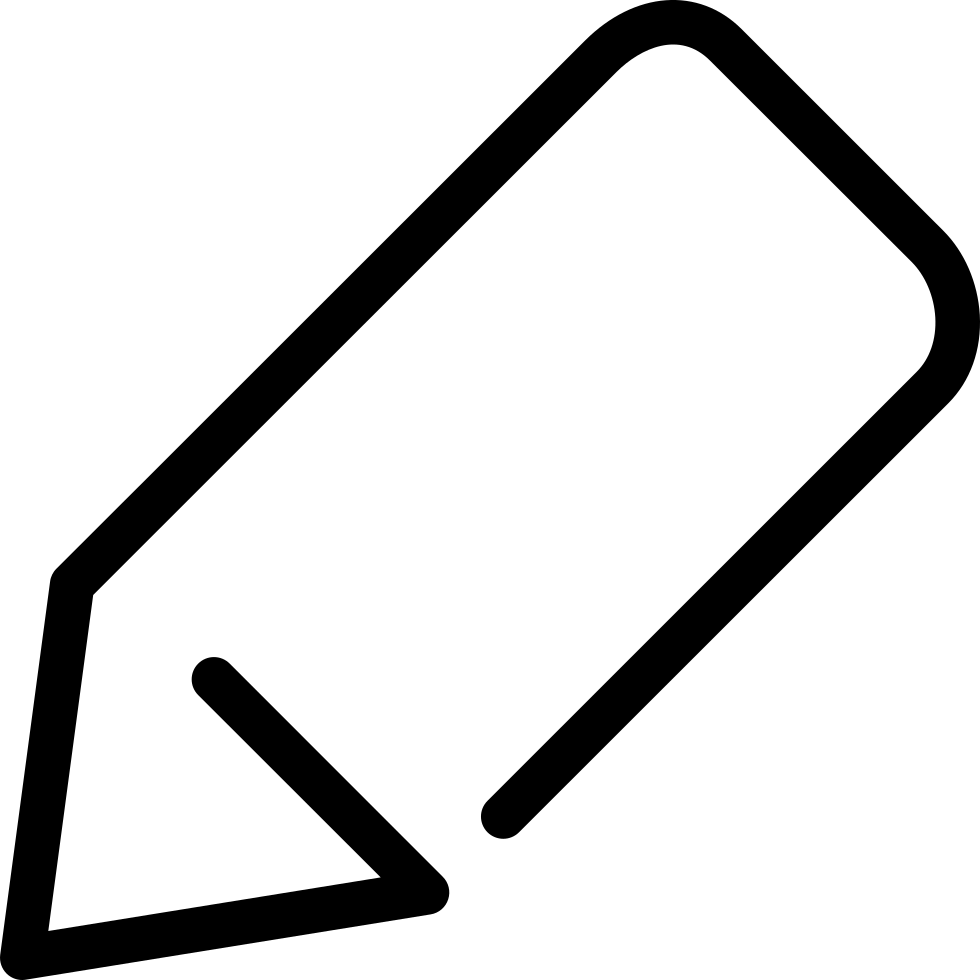
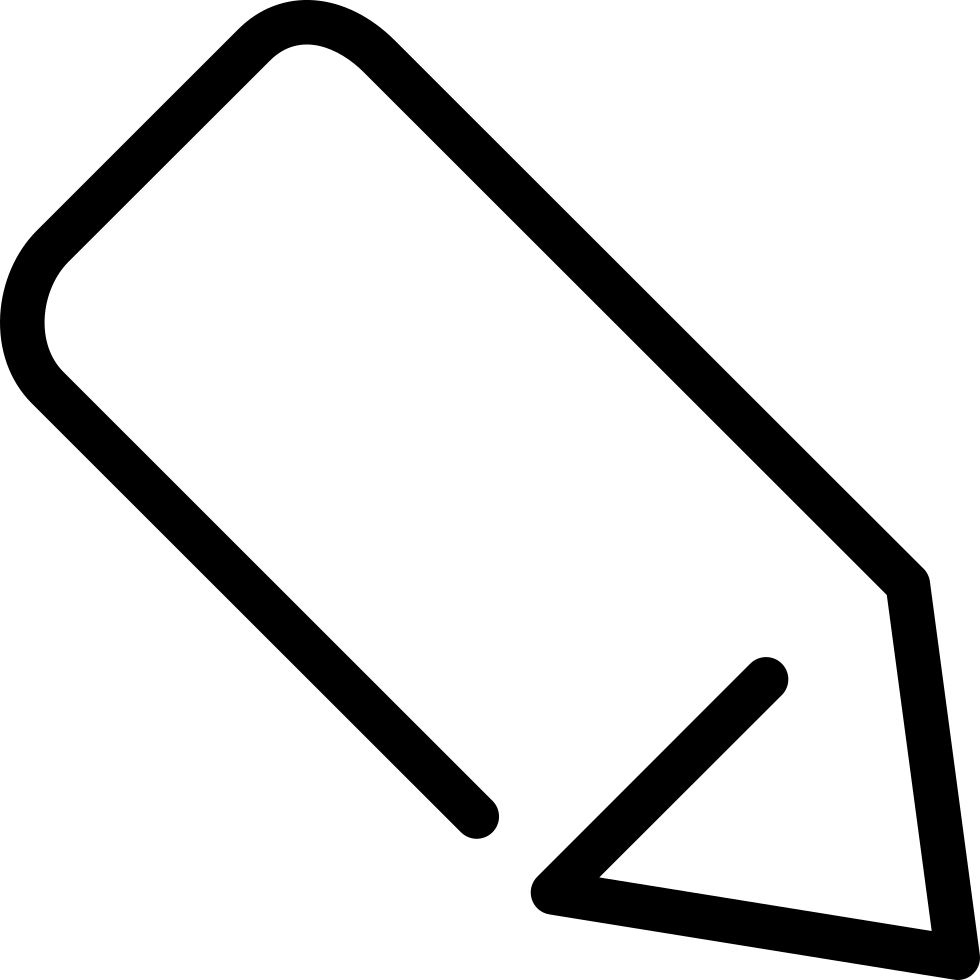
Created button on Detail view that allows user to add/remove video from custom lists

Changed region(s): [[0.0, 0.0, 1.0, 1.0]]

diff --git a/main_window/mainwindow.py b/main_window/mainwindow.py
@@ -9,6 +9,7 @@ import PyQt5.QtWidgets as QtWidgets
 import PyQt5.QtCore as QtCore
 
 from fetch_video_info import fetch_window
+from main_window import add_to_cl_window
 from misc_files import common_vars, check_for_db
 from settings import settings_window
 from video_entry import entry_screen
@@ -324,6 +325,16 @@ class MainWindow(QtWidgets.QMainWindow):
 		self.middleRibbonHLayout.addWidget(self.YTButton)
 		self.middleRibbonHLayout.addSpacing(10)
 
+		self.editCLIcon = QtGui.QIcon(getcwd() + '\\icons\\edit-cl-icon.png')
+		self.editCLButton = QtWidgets.QPushButton()
+		self.editCLButton.setToolTip('Add/remove from custom lists')
+		self.editCLButton.setFixedSize(40, 40)
+		self.editCLButton.setIcon(self.editCLIcon)
+		self.editCLButton.setIconSize(QtCore.QSize(30, 30))
+		self.editCLButton.setDisabled(True)
+		self.middleRibbonHLayout.addSpacing(30)
+		self.middleRibbonHLayout.addWidget(self.editCLButton, alignment=QtCore.Qt.AlignRight)
+
 		self.deleteIcon = QtGui.QIcon(getcwd() + '\\icons\\delete_icon.png')
 		self.deleteButton = QtWidgets.QPushButton()
 		self.deleteButton.setToolTip('Delete this video from AMV Tracker')
@@ -331,7 +342,6 @@ class MainWindow(QtWidgets.QMainWindow):
 		self.deleteButton.setIcon(self.deleteIcon)
 		self.deleteButton.setIconSize(QtCore.QSize(25, 25))
 		self.deleteButton.setDisabled(True)
-		self.middleRibbonHLayout.addSpacing(30)
 		self.middleRibbonHLayout.addWidget(self.deleteButton, alignment=QtCore.Qt.AlignRight)
 
 		self.vertFrame1 = QtWidgets.QFrame()
@@ -387,12 +397,26 @@ class MainWindow(QtWidgets.QMainWindow):
 		self.vidIDLabel.setText('AMV Tracker video ID:\n')
 		self.vidIDLabel.setFont(self.medLargeText)
 		self.middleRibbonHLayout.addWidget(self.vidIDLabel)
+		"""self.middleRibbonHLayout.addSpacing(10)
+
+		self.vertFrame4 = QtWidgets.QFrame()
+		self.vertFrame4.setFrameStyle(QtWidgets.QFrame.VLine | QtWidgets.QFrame.Sunken)
+		self.vertFrame4.setLineWidth(0)
+		self.vertFrame4.setMidLineWidth(1)
+		self.middleRibbonHLayout.addWidget(self.vertFrame4)
+		self.middleRibbonHLayout.addSpacing(10)
+
+		self.dViewSubDBLabel = QtWidgets.QLabel()
+		self.dViewSubDBLabel.setText('Sub-DB:\n')
+		self.dViewSubDBLabel.setFont(self.medLargeText)
+		self.middleRibbonHLayout.addWidget(self.dViewSubDBLabel)"""
 
 		# self.gridDHeader.addLayout(self.middleRibbonHLayout, dViewHeaderInd, 0, 1, 3)
 
 		dViewHeaderInd += 1
 
 		## Detail view: Left grid
+		# TODO: Widgets overlap if too much info is provided
 		self.pseudoLabel = QtWidgets.QLabel()
 		self.pseudoLabel.setWordWrap(True)
 		self.pseudoLabel.setText('Primary editor pseudonym(s): ')
@@ -520,7 +544,7 @@ class MainWindow(QtWidgets.QMainWindow):
 
 		self.tags1Label = QtWidgets.QLabel()
 		self.tags1Label.setWordWrap(True)
-		self.tags1Label.setText('Tags:')
+		self.tags1Label.setText('Tags: ')
 		# self.tags1Label.hide()
 		self.tags1Label.setFixedWidth(300)
 		self.tags1Label.setFont(self.medLargeText)
@@ -773,7 +797,7 @@ class MainWindow(QtWidgets.QMainWindow):
 		# Set layouts
 		self.hLayoutTopBar_L.addWidget(self.addVideoBtn, alignment=QtCore.Qt.AlignLeft)
 		self.hLayoutTopBar_L.addWidget(self.fetchDataButton, alignment=QtCore.Qt.AlignLeft)
-		self.hLayoutTopBar_L.addWidget(self.custListBtn, alignment=QtCore.Qt.AlignLeft)
+		# self.hLayoutTopBar_L.addWidget(self.custListBtn, alignment=QtCore.Qt.AlignLeft)
 		self.hLayoutTopBar_Ctr.addWidget(self.listViewBtn, alignment=QtCore.Qt.AlignLeft)
 		self.hLayoutTopBar_Ctr.addWidget(self.detailViewBtn, alignment=QtCore.Qt.AlignLeft)
 		self.hLayoutTopBar_R.addWidget(self.settingsBtn, alignment=QtCore.Qt.AlignRight)
@@ -837,6 +861,8 @@ class MainWindow(QtWidgets.QMainWindow):
 		self.YTButton.clicked.connect(lambda: self.go_to_link(common_vars.sub_db_lookup()[self.subDBDrop.currentText()],
 																self.searchTable.item(self.searchTable.currentRow(), 0).text(),
 															  'video_youtube_url'))
+		self.editCLButton.clicked.connect(lambda: self.add_to_cust_list(
+			self.searchTable.item(self.searchTable.currentRow(), 0).text()))
 		self.deleteButton.clicked.connect(lambda: self.delete_video(
 			common_vars.sub_db_lookup()[self.subDBDrop.currentText()],
 			self.searchTable.item(self.searchTable.currentRow(), 0).text()))
@@ -1453,6 +1479,7 @@ class MainWindow(QtWidgets.QMainWindow):
 			self.thumbLabel.setPixmap(self.thumbPixmap.scaled(self.thumbLabel.size(), QtCore.Qt.KeepAspectRatio))
 
 			self.editButton.setEnabled(True)
+			self.editCLButton.setEnabled(True)
 			self.deleteButton.setEnabled(True)
 			self.playCountIncreaseBtn.setEnabled(True)
 			self.playCountDecreaseBtn.setEnabled(True)
@@ -1704,6 +1731,10 @@ class MainWindow(QtWidgets.QMainWindow):
 			no_url_error.exec_()
 
 		go_to_link_conn.close()
+
+	def add_to_cust_list(self, vidid):
+		self.add_win = add_to_cl_window.AddToCustList(vidid)
+		self.add_win.show()
 
 	def delete_video(self, subdb, vidid):
 		subdb_friendly = common_vars.sub_db_lookup(reverse=True)[subdb]

diff --git a/main_window/add_to_cl_window.py b/main_window/add_to_cl_window.py
@@ -1,0 +1,110 @@
+import PyQt5.QtGui as QtGui
+import PyQt5.QtWidgets as QtWidgets
+import PyQt5.QtCore as QtCore
+import sqlite3
+
+from misc_files import common_vars
+
+
+class AddToCustList(QtWidgets.QMainWindow):
+	def __init__(self, vidid):
+		super(AddToCustList, self).__init__()
+
+		self.vidid = vidid
+
+		self.vLayoutMaster = QtWidgets.QVBoxLayout()
+		self.checkVLayout = QtWidgets.QVBoxLayout()
+		self.hLayout = QtWidgets.QHBoxLayout()
+		self.scrollWidget = QtWidgets.QWidget()
+		self.scrollArea = QtWidgets.QScrollArea()
+		self.scrollArea.setSizePolicy(QtWidgets.QSizePolicy.Expanding, QtWidgets.QSizePolicy.Expanding)
+
+		self.descLabel = QtWidgets.QLabel()
+		self.descLabel.setText('Please select the custom list(s) you\'d like to add this\n'
+							   'video to.\n\n'
+							   'Please note that if any of the lists below are checked\n'
+							   'and you uncheck them before submitting, the video will\n'
+							   'be removed from that custom list.')
+
+		self.cancelButton = QtWidgets.QPushButton('Cancel')
+		self.cancelButton.setFixedWidth(125)
+
+		self.submitButton = QtWidgets.QPushButton('Submit')
+		self.submitButton.setFixedWidth(125)
+
+		# Layouts
+		self.vLayoutMaster.addWidget(self.descLabel)
+		self.populate_checkboxes()
+		self.scrollWidget.setLayout(self.checkVLayout)
+		self.scrollArea.setWidget(self.scrollWidget)
+		self.vLayoutMaster.addWidget(self.scrollArea)
+		self.hLayout.addWidget(self.cancelButton)
+		self.hLayout.addWidget(self.submitButton)
+		self.vLayoutMaster.addLayout(self.hLayout)
+
+		# Signals / slots
+		self.cancelButton.clicked.connect(self.close)
+		self.submitButton.clicked.connect(self.submit)
+
+		# Widget
+		self.wid = QtWidgets.QWidget()
+		self.wid.setLayout(self.vLayoutMaster)
+		self.setCentralWidget(self.wid)
+		self.setWindowTitle('Custom lists')
+		self.setFixedSize(self.sizeHint())
+		self.setFixedHeight(400)
+		self.wid.show()
+
+	def populate_checkboxes(self):
+		video_db_conn = sqlite3.connect(common_vars.video_db())
+		video_db_cursor = video_db_conn.cursor()
+
+		video_db_cursor.execute('SELECT list_name FROM custom_lists')
+		all_cust_lists = [x[0] for x in video_db_cursor.fetchall()]
+		all_cust_lists.sort(key=lambda x: x.casefold())
+
+		video_db_cursor.execute('SELECT list_name FROM custom_lists WHERE vid_ids LIKE "%{}%"'.format(self.vidid))
+		vid_exists_list = [x[0] for x in video_db_cursor.fetchall()]
+
+		list_of_checks = [QtWidgets.QCheckBox(cl) for cl in all_cust_lists]
+		for chk in list_of_checks:
+			self.checkVLayout.addWidget(chk)
+			if chk.text() in vid_exists_list:
+				chk.setChecked(True)
+
+		video_db_conn.close()
+
+	def submit(self):
+		submit_conn = sqlite3.connect(common_vars.video_db())
+		submit_cursor = submit_conn.cursor()
+
+		checked_boxes = [chk.text() for chk in self.checkVLayout.parentWidget().findChildren(QtWidgets.QCheckBox) if
+						 chk.isChecked()]
+		unchecked_boxes = [chk.text() for chk in self.checkVLayout.parentWidget().findChildren(QtWidgets.QCheckBox) if
+						 not chk.isChecked()]
+		all_boxes = checked_boxes + unchecked_boxes
+
+		for box in all_boxes:
+			submit_cursor.execute('SELECT vid_ids FROM custom_lists WHERE list_name = ?', (box,))
+			vidid_str = submit_cursor.fetchone()[0]
+			if box in checked_boxes and self.vidid not in vidid_str:
+				vidid_str += '; {}'.format(self.vidid)
+				submit_cursor.execute('UPDATE custom_lists SET vid_ids = ? WHERE list_name = ?', (vidid_str, box))
+				submit_conn.commit()
+
+			elif box in unchecked_boxes and self.vidid in vidid_str:
+				vidid_list = vidid_str.split('; ')
+				vidid_list.remove(self.vidid)
+				upd_str = '; '.join(vidid_list)
+				submit_cursor.execute('UPDATE custom_lists SET vid_ids = ? WHERE list_name = ?', (upd_str, box))
+				submit_conn.commit()
+
+		op_completed = QtWidgets.QMessageBox(QtWidgets.QMessageBox.Information, 'Lists updated',
+											 'Custom lists have been updated.')
+		op_completed.exec_()
+
+		submit_conn.close()
+		self.close()
+
+
+

diff --git a/video_entry/entry_screen.py b/video_entry/entry_screen.py
@@ -55,6 +55,7 @@ class VideoEntry(QtWidgets.QMainWindow):
 		self.entry_settings_list = self.settings_cursor.fetchall()
 		for pair in self.entry_settings_list:
 			self.entry_settings[pair[0]] = int(pair[1])
+
 		# Initiate top-level layouts
 		self.tabs = QtWidgets.QTabWidget()
 		self.tab1 = QtWidgets.QWidget()
@@ -79,7 +80,6 @@ class VideoEntry(QtWidgets.QMainWindow):
 		hLayoutMain.addWidget(self.submitButton, alignment=QtCore.Qt.AlignRight)
 
 		## Tab 1 - Left grid ##
-		self.tabs.addTab(self.tab1, 'Video information')
 		tab_1_grid_L = QtWidgets.QGridLayout()
 		tab_1_grid_L.setAlignment(QtCore.Qt.AlignTop)
 		tab_1_grid_L.setColumnMinimumWidth(5, 7)
@@ -443,7 +443,6 @@ class VideoEntry(QtWidgets.QMainWindow):
 		tab_1_grid_R.addWidget(self.vidDescBox, grid_1_R_vert_ind, 1, alignment=QtCore.Qt.AlignLeft)
 
 		## Tab 2 ##
-		self.tabs.addTab(self.tab2, 'My rating/tags/comments')
 		tab_2_grid = QtWidgets.QGridLayout()
 		tab_2_grid.setAlignment(QtCore.Qt.AlignTop)
 		grid_2_vert_ind = 0
@@ -601,7 +600,6 @@ class VideoEntry(QtWidgets.QMainWindow):
 		tab_2_grid.addWidget(self.commentsBox, grid_2_vert_ind + 1, 0, 1, 4, alignment=QtCore.Qt.AlignTop)
 
 		## Tab 3 - Top grid ##
-		self.tabs.addTab(self.tab3, 'Sources and URLs')
 		tab_3_grid_T = QtWidgets.QGridLayout()
 		tab_3_grid_T.setAlignment(QtCore.Qt.AlignTop)
 		grid_3_T_vert_ind = 0
@@ -742,7 +740,7 @@ class VideoEntry(QtWidgets.QMainWindow):
 		tab_3_grid_T.addWidget(self.thumbnailGenButton, grid_3_T_vert_ind, 4, alignment=QtCore.Qt.AlignLeft)
 
 		## Tab 3 - Bottom grid ##
-		self.tabs.addTab(self.tab3, 'Sources and URLs')
+		#self.tabs.addTab(self.tab3, 'Sources and URLs')
 		tab_3_grid_B = QtWidgets.QGridLayout()
 		tab_3_grid_B.setAlignment(QtCore.Qt.AlignLeft)
 		tab_3_grid_B.setAlignment(QtCore.Qt.AlignTop)
@@ -809,7 +807,6 @@ class VideoEntry(QtWidgets.QMainWindow):
 		grid_3_B_vert_ind += 1
 
 		## Tab 4 ##
-		self.tabs.addTab(self.tab4, 'Submission rules')
 		tab_4_vLayoutMaster = QtWidgets.QVBoxLayout()
 		tab_4_vLayoutMaster.setAlignment(QtCore.Qt.AlignTop)
 		tab_4_vLayout1 = QtWidgets.QVBoxLayout()
@@ -883,6 +880,11 @@ class VideoEntry(QtWidgets.QMainWindow):
 		self.custListScrollArea.setWidget(self.custListScrollWidget)
 
 		## Layouts ##
+		self.tabs.addTab(self.tab3, 'Sources and URLs')
+		self.tabs.addTab(self.tab1, 'Video information')
+		self.tabs.addTab(self.tab2, 'My rating/tags/comments')
+		self.tabs.addTab(self.tab4, 'Submission rules')
+
 		tab1_grid_hLayout.addLayout(tab_1_grid_L)
 		tab1_grid_hLayout.addSpacing(15)
 		tab1_grid_hLayout.addLayout(tab_1_grid_R)
@@ -1763,6 +1765,7 @@ class VideoEntry(QtWidgets.QMainWindow):
 
 			# Add entry to selected Custom Lists
 			if checked_cls:
+				# TODO: Make sure vidid is not added again to Custom Lists where it already exists
 				for cl_name in checked_cls:
 					self.subDB_cursor.execute('SELECT vid_ids FROM custom_lists WHERE list_name = ?', (cl_name,))
 					vid_ids_str = self.subDB_cursor.fetchone()[0]
